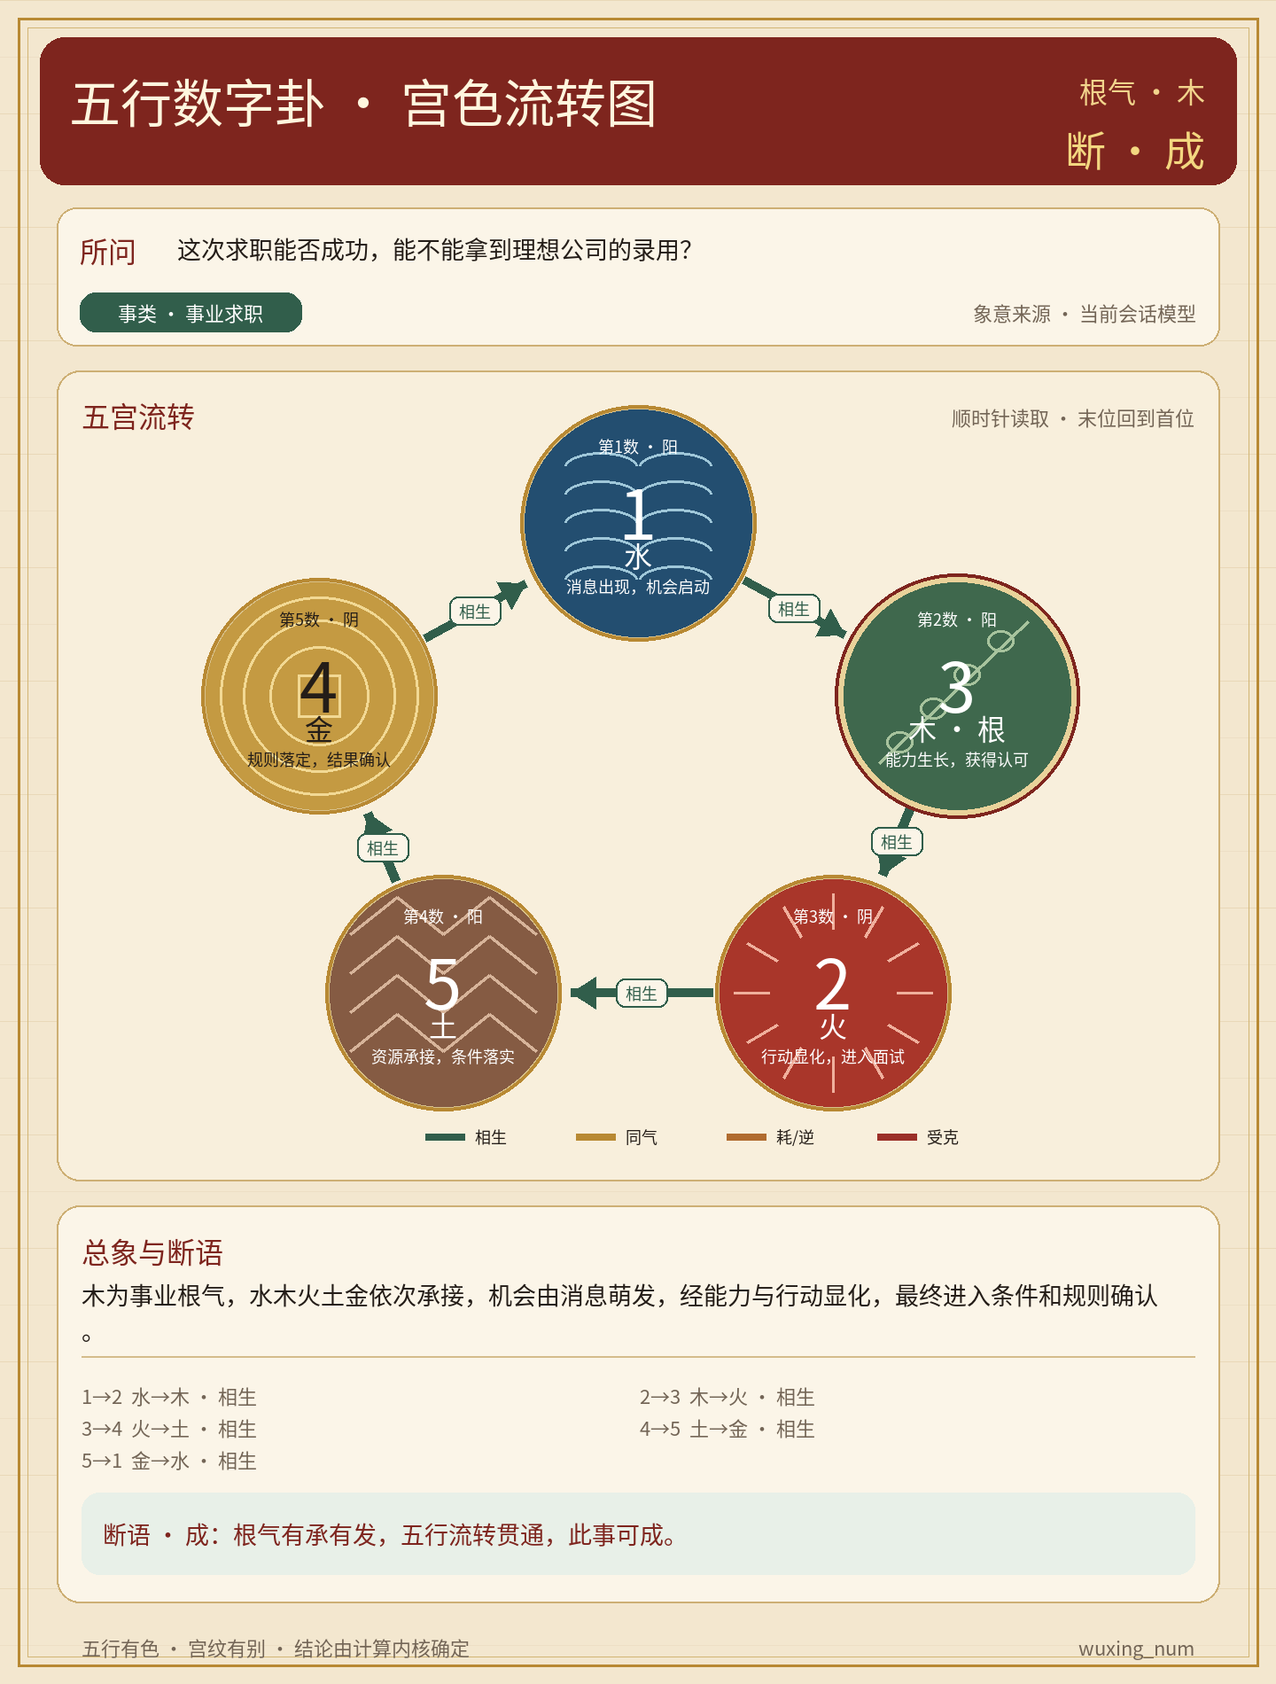
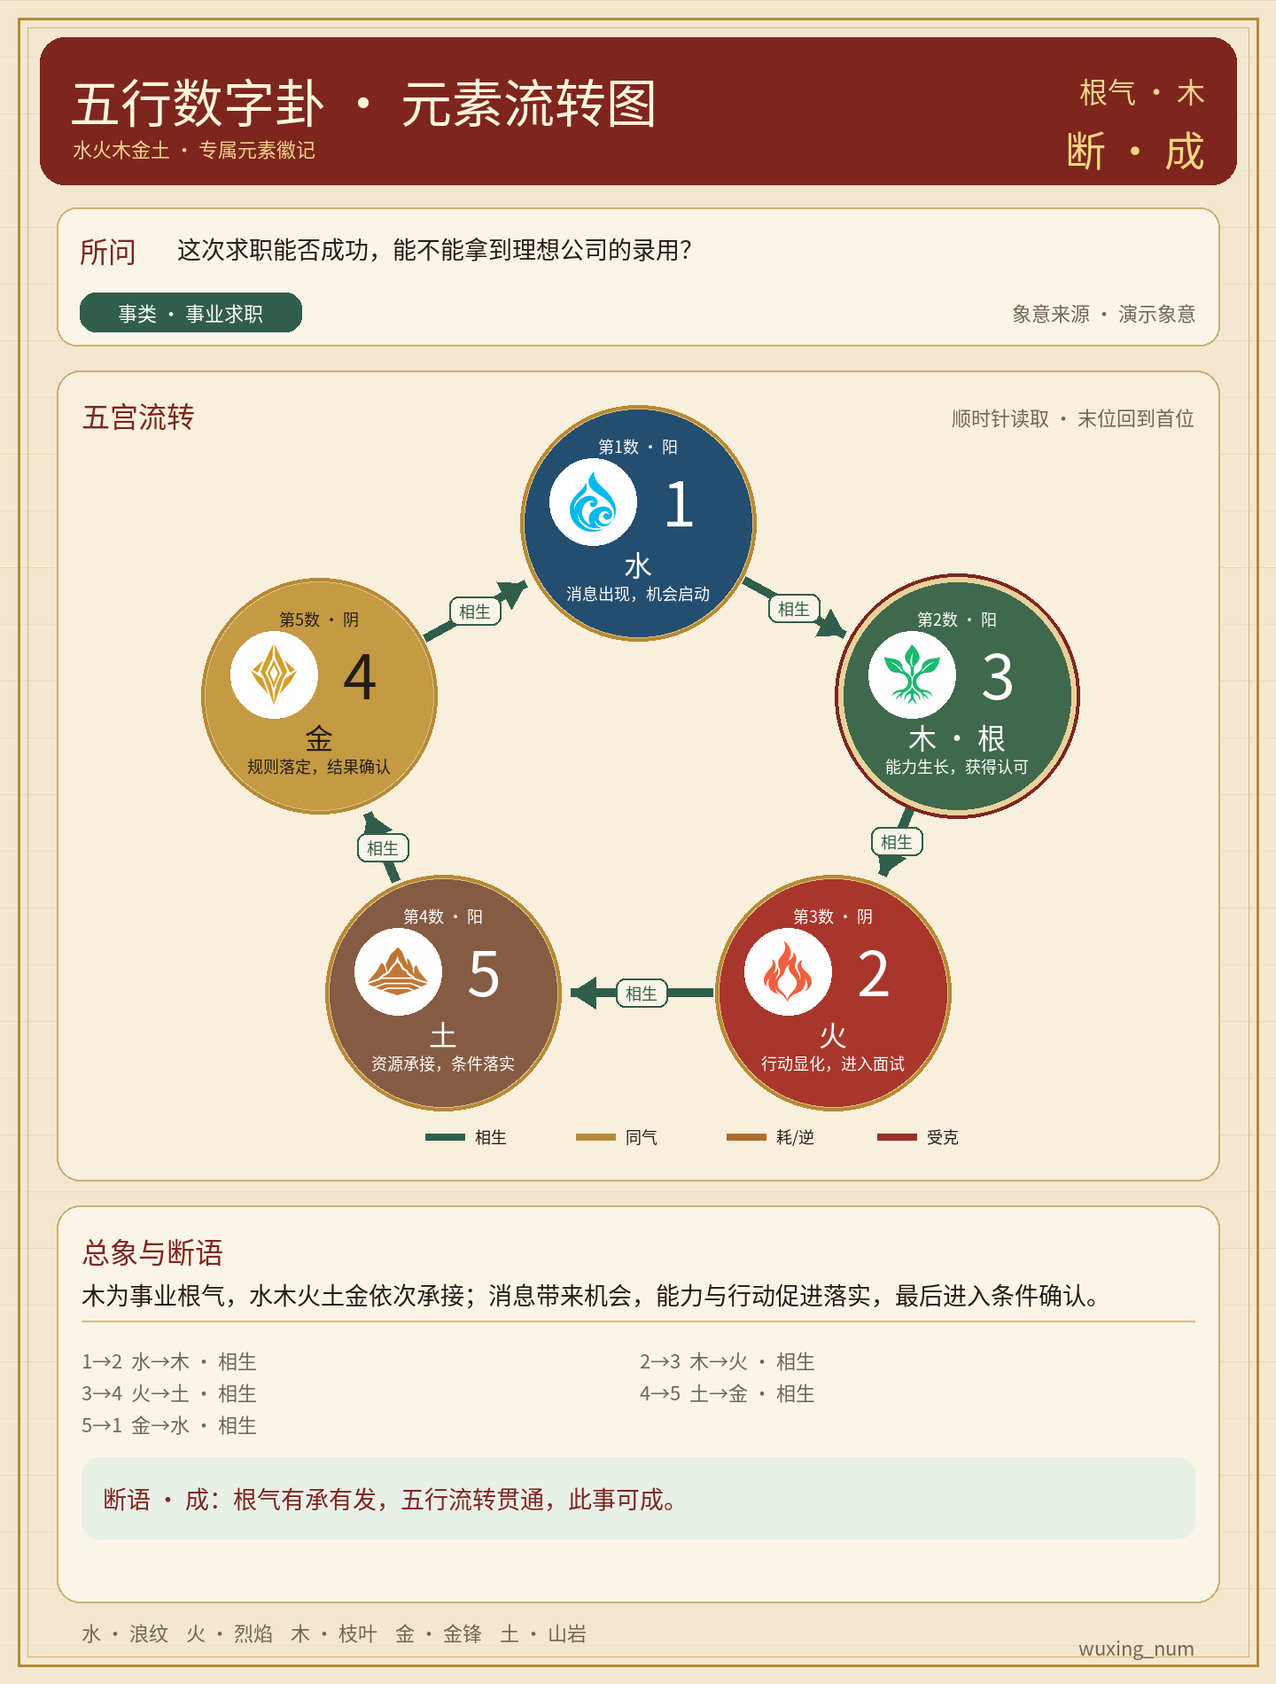
feat(wuxing_num): 接入原创五行元素徽记
参考元素标志风格生成水火木金土专属图集，金以金属刃面表达。图卡并排展示徽记与数字，补充 LLM 象意边界、素材回退与可复现预览。验证：14 项测试通过，完成 PNG 视觉检查。

diff --git a/renderer.py b/renderer.py
@@ -12,8 +12,10 @@ from PIL import Image, ImageDraw, ImageFont
 
 try:
     from .engine import DivinationResult, yin_yang_summary
+    from .element_icons import load_icons
 except ImportError:  # pragma: no cover - direct local execution
     from engine import DivinationResult, yin_yang_summary
+    from element_icons import load_icons
 
 
 WIDTH = 1440
@@ -61,6 +63,11 @@ class WuxingChartRenderer:
     def __init__(self, font_path: str | Path | None = None):
         custom = Path(font_path).expanduser() if font_path else None
         self._font_path = custom if custom and custom.is_file() else self._find_font()
+        try:
+            self._icons = load_icons()
+        except (OSError, ValueError):
+            # A missing optional sprite must not break the chart or its verdict.
+            self._icons = {}
 
     def render(
         self,
@@ -84,7 +91,7 @@ class WuxingChartRenderer:
             "body": self._font(27),
             "small": self._font(22),
             "tiny": self._font(18),
-            "digit": self._font(78),
+            "digit": self._font(70),
             "element": self._font(32),
             "verdict": self._font(46),
         }
@@ -93,7 +100,7 @@ class WuxingChartRenderer:
         self._draw_background(draw)
         self._draw_header(draw, result, fonts)
         self._draw_meta(draw, question, matter_type, symbolism_source, fonts)
-        self._draw_cycle(draw, result, meanings, fonts)
+        self._draw_cycle(canvas, draw, result, meanings, fonts)
         self._draw_interpretation(draw, result, symbolic_summary, fonts)
 
         path = self._output_path(output_path)
@@ -115,7 +122,9 @@ class WuxingChartRenderer:
 
     def _draw_header(self, draw, result, fonts) -> None:
         draw.rounded_rectangle((45, 42, WIDTH - 45, 208), radius=28, fill=PALACE_RED)
-        draw.text((78, 70), "五行数字卦 · 宫色流转图", font=fonts["title"], fill="#FFF6DE")
+        draw.text((78, 70), "五行数字卦 · 元素流转图", font=fonts["title"], fill="#FFF6DE")
+        subtitle = "水火木金土 · 专属元素徽记" if self._icons else "五行纹样 · 元素标志暂不可用"
+        draw.text((82, 151), subtitle, font=fonts["small"], fill="#F2D48C")
         draw.text(
             (WIDTH - 80, 78),
             f"根气 · {result.root}",
@@ -148,7 +157,7 @@ class WuxingChartRenderer:
         draw.text((215, 352), f"事类 · {self._clean(matter_type)[:10] or '综合'}", font=fonts["small"], fill="#FFFFFF", anchor="mm")
         draw.text((WIDTH - 90, 352), f"象意来源 · {self._clean(source)[:18]}", font=fonts["small"], fill=MUTED, anchor="rm")
 
-    def _draw_cycle(self, draw, result, meanings, fonts) -> None:
+    def _draw_cycle(self, canvas, draw, result, meanings, fonts) -> None:
         panel = (64, 418, WIDTH - 64, 1332)
         draw.rounded_rectangle(panel, radius=26, fill="#F8EFDC", outline="#CDAF74", width=2)
         draw.text((92, 444), "五宫流转", font=fonts["section"], fill=PALACE_RED)
@@ -164,6 +173,7 @@ class WuxingChartRenderer:
         yin_yang, _ = yin_yang_summary(result.digits)
         for index, center in enumerate(centers):
             self._draw_node(
+                canvas,
                 draw,
                 center,
                 radius,
@@ -208,21 +218,30 @@ class WuxingChartRenderer:
         draw.rounded_rectangle((mx - width / 2, my - height / 2, mx + width / 2, my + height / 2), radius=10, fill=PAPER_LIGHT, outline=color, width=2)
         draw.text((mx, my), label, font=fonts["tiny"], fill=color, anchor="mm")
 
-    def _draw_node(self, draw, center, radius, *, position, digit, yin_yang, element, meaning, is_root, fonts) -> None:
+    def _draw_node(self, canvas, draw, center, radius, *, position, digit, yin_yang, element, meaning, is_root, fonts) -> None:
         cx, cy = center
         style = ELEMENT_STYLE[element]
         outer = 10 if is_root else 5
         draw.ellipse((cx - radius - outer, cy - radius - outer, cx + radius + outer, cy + radius + outer), fill="#E9D29A" if is_root else "#D8C18A", outline=PALACE_RED if is_root else IMPERIAL_GOLD, width=4)
         draw.ellipse((cx - radius, cy - radius, cx + radius, cy + radius), fill=style["fill"])
-        self._draw_pattern(draw, center, radius, style["pattern"], style["line"])
         text_color = style["text"]
         draw.text((cx, cy - 100), f"第{position}数 · {yin_yang}", font=fonts["tiny"], fill=text_color, anchor="ma")
-        draw.text((cx, cy - 72), digit, font=fonts["digit"], fill=text_color, anchor="ma")
+        icon = self._icons.get(element)
+        if icon is not None:
+            # Keep the generated icon's white background inside a white medallion.
+            # Digits and symbolism occupy separate areas for clear reading.
+            ix, iy = cx - 51, cy - 24
+            draw.ellipse((ix - 49, iy - 49, ix + 49, iy + 49), fill="#FFFFFF")
+            canvas.paste(icon, (ix - icon.width // 2, iy - icon.height // 2))
+            draw.text((cx + 47, cy - 27), digit, font=fonts["digit"], fill=text_color, anchor="mm")
+        else:
+            self._draw_pattern(draw, center, radius, style["pattern"], style["line"])
+            draw.text((cx, cy - 72), digit, font=fonts["digit"], fill=text_color, anchor="ma")
         root_suffix = " · 根" if is_root else ""
-        draw.text((cx, cy + 12), f"{element}{root_suffix}", font=fonts["element"], fill=text_color, anchor="ma")
+        draw.text((cx, cy + 22), f"{element}{root_suffix}", font=fonts["element"], fill=text_color, anchor="ma")
         lines = self._wrap(draw, meaning, fonts["tiny"], 188)
         for index, line in enumerate(lines[:2]):
-            draw.text((cx, cy + 58 + index * 27), line, font=fonts["tiny"], fill=text_color, anchor="ma")
+            draw.text((cx, cy + 66 + index * 24), line, font=fonts["tiny"], fill=text_color, anchor="ma")
 
     @staticmethod
     def _draw_pattern(draw, center, radius, pattern, color) -> None:
@@ -269,7 +288,7 @@ class WuxingChartRenderer:
         verdict_fill = "#E8F0E8" if result.verdict == "成" else "#F4E5DE"
         draw.rounded_rectangle((92, verdict_y, WIDTH - 92, verdict_y + 92), radius=20, fill=verdict_fill)
         draw.text((116, verdict_y + 46), f"断语 · {result.phrase}", font=fonts["body"], fill=PALACE_RED, anchor="lm")
-        draw.text((92, 1842), "五行有色 · 宫纹有别 · 结论由计算内核确定", font=fonts["small"], fill=MUTED)
+        draw.text((92, 1825), "水 · 浪纹    火 · 烈焰    木 · 枝叶    金 · 金锋    土 · 山岩", font=fonts["small"], fill=MUTED)
         draw.text((WIDTH - 92, 1842), "wuxing_num", font=fonts["small"], fill=MUTED, anchor="ra")
 
     @staticmethod

diff --git a/main.py b/main.py
@@ -13,6 +13,7 @@ from astrbot.api.star import Context, Star, register
 
 from .engine import DivinationResult, ELEMENTS, calculate, format_result
 from .renderer import ChartRenderError, WuxingChartRenderer
+from .element_icons import ICON_EXPLANATION
 
 
 PLUGIN_NAME = "wuxing_num"
@@ -32,7 +33,7 @@ class Symbolism:
     PLUGIN_NAME,
     "haxif",
     "以五个数字判断五行流转并生成宫色象意卦图；只响应专用命令或专用 Agent 工具。",
-    "1.1.0",
+    "1.2.0",
 )
 class WuxingNumberDivinationPlugin(Star):
     def __init__(self, context: Context):
@@ -166,6 +167,7 @@ class WuxingNumberDivinationPlugin(Star):
 阴阳与流转：{relations}
 根气：{result.root}
 固定结论：{result.verdict}；固定断语：{result.phrase}
+配图说明：{ICON_EXPLANATION}
 
 请只返回 JSON，不要 Markdown：
 {{"matter_type":"2至8个汉字的事物类型","meanings":["第1位象意，不超过16字","第2位象意，不超过16字","第3位象意，不超过16字","第4位象意，不超过16字","第5位象意，不超过16字"],"summary":"结合问题、根气和流转的明确总象，不超过70字"}}
@@ -258,6 +260,8 @@ class WuxingNumberDivinationPlugin(Star):
 
         禁止用于六爻、铜钱卦、摇卦、爻辞、纳甲等请求。先根据问题本质在
         水火木金土中选择唯一根气，再把该字作为 root_element 传入；不得含糊。
+        卦图使用专为五行生成的水纹、火焰、枝叶、金属刃面和山岩徽记。
+        金为金属而非雷；象意、生克按五行解释，不引入游戏元素反应。
 
         Args:
             question(string): 用户实际所问之事。
@@ -288,7 +292,7 @@ class WuxingNumberDivinationPlugin(Star):
                 symbolism,
                 "调用此工具的 Agent",
             )
-            return f"{chart_status}\n\n{text}\n象意总览：{clean_summary}"
+            return f"{chart_status}\n\n{text}\n象意总览：{clean_summary}\n配图说明：{ICON_EXPLANATION}"
         except ValueError as exc:
             return f"调用失败：{exc}"
         except OSError:

diff --git a/element_icons.py b/element_icons.py
@@ -1,0 +1,42 @@
+"""Original five-element emblem atlas, generated from a visual style reference."""
+
+from pathlib import Path
+
+from PIL import Image, ImageChops
+
+
+ICON_STRIP = Path(__file__).resolve().parent / "assets" / "icons" / "wuxing_emblems.png"
+# One 3 x 2 atlas; the last cell is intentionally empty.
+ICON_BOXES = {
+    "水": (0, 0, 512, 512),
+    "火": (512, 0, 1024, 512),
+    "木": (1024, 0, 1536, 512),
+    "金": (0, 512, 512, 1024),
+    "土": (512, 512, 1024, 1024),
+}
+ICON_EXPLANATION = (
+    "卦图采用专为五行生成的元素徽记：水为浪纹、火为烈焰、木为枝叶根系、"
+    "金为金属刃面与菱形、土为层叠山岩。金就是金属，不对应雷。"
+    "象意、根气和生克按五行解释，不引入游戏元素反应或角色设定。"
+)
+
+
+def load_icons(path: Path = ICON_STRIP) -> dict[str, Image.Image]:
+    """Read sprites at runtime, keeping the original asset unchanged on disk."""
+    with Image.open(path) as strip:
+        if strip.size != (1536, 1024):
+            raise ValueError("五行徽记图集应为 1536 × 1024 图片")
+        icons = {}
+        for element, box in ICON_BOXES.items():
+            icon = strip.crop(box).convert("RGB")
+            # Ignore near-white margins when sizing sprites. Never rewrite the
+            # generated asset: this is the chart renderer's runtime layout.
+            red, green, blue = icon.split()
+            darkest = ImageChops.darker(ImageChops.darker(red, green), blue)
+            bounds = darkest.point(lambda value: 255 if value < 190 else 0).getbbox()
+            if bounds is None:
+                raise ValueError(f"{element}徽记为空")
+            icon = icon.crop(bounds)
+            icon.thumbnail((68, 68), Image.Resampling.LANCZOS)
+            icons[element] = icon
+        return icons

diff --git a/tests/test_renderer.py b/tests/test_renderer.py
@@ -9,6 +9,7 @@ sys.path.insert(0, str(ROOT))
 
 from engine import calculate  # noqa: E402
 from renderer import ELEMENT_STYLE, WuxingChartRenderer  # noqa: E402
+import renderer as renderer_module  # noqa: E402
 
 
 def test_renderer_creates_palace_style_png(tmp_path) -> None:
@@ -37,6 +38,10 @@ def test_renderer_creates_palace_style_png(tmp_path) -> None:
         assert image.format == "PNG"
         assert image.mode == "RGB"
         assert image.size == (1440, 1900)
+        # All five positions contain the white icon medallion, not an empty
+        # flat-colour palace. This also covers glyph pasting on the PNG canvas.
+        for cx, cy in [(720, 590), (1080, 785), (940, 1120), (500, 1120), (360, 785)]:
+            assert image.getpixel((cx - 51, cy - 66)) == (255, 255, 255)
 
 
 def test_each_element_has_distinct_color_and_pattern() -> None:
@@ -62,3 +67,19 @@ def test_renderer_rejects_incomplete_symbolism(tmp_path) -> None:
         assert "五条" in str(exc)
     else:
         raise AssertionError("incomplete symbolism should be rejected")
+
+
+def test_missing_icon_asset_still_renders(tmp_path, monkeypatch) -> None:
+    def missing():
+        raise FileNotFoundError("icon strip absent")
+
+    monkeypatch.setattr(renderer_module, "load_icons", missing)
+    output = WuxingChartRenderer().render(
+        calculate("测试", "13254", "水"),
+        question="测试", matter_type="综合",
+        symbolic_meanings=("起因", "承接", "转折", "落实", "归结"),
+        symbolic_summary="素材丢失时仍显示五行流转。",
+        output_path=tmp_path / "fallback.png",
+    )
+    with Image.open(output) as image:
+        assert image.size == (1440, 1900)

diff --git a/tools/preview.py b/tools/preview.py
@@ -1,0 +1,30 @@
+"""Regenerate the README preview using illustrative, not live-model, symbolism."""
+
+from pathlib import Path
+import sys
+
+ROOT = Path(__file__).resolve().parents[1]
+sys.path.insert(0, str(ROOT))
+
+from engine import calculate
+from renderer import WuxingChartRenderer
+
+
+def main():
+    output = WuxingChartRenderer().render(
+        calculate("这次求职能否成功", "13254", "木"),
+        question="这次求职能否成功，能不能拿到理想公司的录用？",
+        matter_type="事业求职",
+        symbolic_meanings=(
+            "消息出现，机会启动", "能力生长，获得认可", "行动显化，进入面试",
+            "资源承接，条件落实", "规则落定，结果确认",
+        ),
+        symbolic_summary="木为事业根气，水木火土金依次承接；消息带来机会，能力与行动促进落实，最后进入条件确认。",
+        symbolism_source="演示象意",
+        output_path=ROOT / "docs" / "example_chart.png",
+    )
+    print(output)
+
+
+if __name__ == "__main__":
+    main()

diff --git a/assets/icons/generation_prompt.md b/assets/icons/generation_prompt.md
@@ -1,0 +1,31 @@
+# 五行徽记生成提示词
+
+工具：内置 imagegen。用户附件为风格参考，最终图集为新生成素材。
+
+## 首稿
+
+Use case: logo-brand.
+Asset type: ONE production sprite atlas for an existing Chinese five-element divination chart.
+Input image 1 is STYLE REFERENCE ONLY: use its crisp flat colored fantasy elemental emblem language, elegant pointed curves and large negative-space cutouts. Design NEW original emblems specifically for Chinese Wuxing, not the seven Genshin elements.
+Canvas: 1536 x 1024, transparent background with real alpha. Exactly 3 columns by 2 rows of equal 512 square cells. No visible grid. Each symbol centered in its cell, similar visual weight, within the central 320 x 320 area, at least 96px empty padding around each cell. Bottom-right cell completely blank and transparent. Exactly five symbols.
+Top-left WATER: rich cyan-blue fluid teardrop enclosing two curling wave crests, expressive pointed wave tips.
+Top-middle FIRE: vermilion orange three tapered dancing flame tongues around a flame-shaped hollow center.
+Top-right WOOD: emerald green stylized branching sapling, upward shoots and three pointed leaves, visible trunk and roots. Organic growth, not a heart.
+Bottom-left METAL: warm golden-yellow symmetric faceted metal crystal / forged spearhead emblem, sharp diamond facets, clean blade-like slivers, hollow angular center. Clearly solid metal, NOT lightning, NOT thunder, NOT purple, NOT electro swirl.
+Bottom-middle EARTH: deep ochre amber stable mountain emblem, layered rock strata and broad terraced base, grounded weight, distinct from the metallic diamond.
+Style: flat single-color fill per symbol, no gradients, no shadows, no glow, no 3D, no background scene, no circles around symbols. Coherent family of highly legible fantasy game UI silhouettes with graceful tapering cutouts and sharp elegant tips. Must read well at 72px.
+No text, no letters, no labels, no numbers, no watermarks, no additional emblems.
+
+## 最终修订
+
+Edit target: image 1 is the five-element atlas just generated. Style reference: image 2 is the small clean elemental logo strip.
+Correct the atlas to match reference 2's FLAT COLORED VECTOR-STYLE EMBLEMS ON PURE SOLID WHITE. The current black background, luminous glow, gradients, haze and imperceptible interior cutouts are WRONG. Remove ALL of those. Pure #FFFFFF fully opaque background throughout.
+Keep the exact 3-column 2-row atlas positions: upper row Water, Fire, Wood; lower row Metal, Earth, EMPTY WHITE cell. Canvas 1536x1024. Center each logo within its 512x512 cell and keep the outer emblem contained in central 320x320 area with 96px margins. Make all five similar size.
+Use SINGLE FLAT SOLID COLOR for each mark. Water cyan #00BADD, fire coral-red #EE6344, wood green #12B66F, metal golden yellow #D8A323, earth ochre #B97835.
+Water: pointed drop with two flowing white wave cutouts.
+Fire: three tapered tongues with a large WHITE flame-shaped hole.
+Wood: upward three-leaf sapling with broad WHITE vein gaps between leaves and trunk, stylized symmetrical roots.
+Metal: sharp faceted forged diamond with WHITE angular facet gaps and a hollow diamond center. NOT thunder/lightning.
+Earth: a grounded mountain peak with three separated WHITE strata gaps and broad terraced base.
+Each glyph must have generous visible WHITE negative spaces as in reference 2. These are small UI icons not illustrations. No gradients, no glow, no shadows, no texture, no blur, no dark background, no text, no letters, no labels, no numbers, no border, no circle, no watermark. Crisp anti-aliased edges only.
+

diff --git a/README.md b/README.md
@@ -15,12 +15,26 @@ AstrBot 专用的五行数字卦插件。它把五个数字按河图数字五行
 ## 卦图设计
 
 - 宣纸月白底、宫墙朱标题、琉璃金边框，保持故宫宫色气质。
-- 水、火、木、金、土分别使用霁青水纹、朱砂火纹、松花绿叶纹、琉璃黄钱纹、赭石山纹。
+- 参考用户提供的元素标志风格，重新生成五行专属徽记：水纹、火焰、枝叶根系、金属刃面、层叠山岩。
 - 五个宫位顺时针排列，箭头和标签显示相生、同气、耗气、逆生或受克。
-- 色彩之外还使用纹样、五行文字和关系标签，不只依赖颜色传达信息。
+- 每宫将徽记与数字并排显示，下方写明五行和象意；根气宫另有描边与“根”字。
 - 图片写入问题、根气、事类、逐位象意、总象、流转关系和固定断语。
 
 其中数字、阴阳、五行关系和成败由本地计算内核确定；事类、五位象意及总象由当前 Agent/会话模型分析，LLM 不得修改插件算出的结论。
+
+| 数字 | 五行 | 专属徽记 |
+| --- | --- | --- |
+| 1、6 | 水 | 青蓝水滴与卷浪 |
+| 2、7 | 火 | 朱红烈焰与镂空焰心 |
+| 3、8 | 木 | 翠绿枝叶与根系 |
+| 4、9 | 金 | 金色菱形金属刃面 |
+| 5、0 | 土 | 赭黄山峰与层叠岩土 |
+
+借鉴参考图的纯色、尖端曲线与镂空设计语言，徽记专为水火木金土重新生成。金直接表现为金属，不用雷代替。相生相克仍按原五行算法计算，不采用游戏元素反应；LLM 提示与工具说明包含这条边界。
+
+徽记图集保存在 `assets/icons/wuxing_emblems.png`，随插件发布；不依赖临时附件路径或外网。缺少或损坏时回退到原五行纹样，并在图上注明标志暂不可用。来源、图集布局和生成提示词见 [素材说明](assets/icons/README.md)。
+
+使用 `python tools/preview.py`（在插件目录执行）重新生成下方示例；其中象意为演示数据。
 
 ![五行数字卦图示例](docs/example_chart.png)
 

diff --git a/assets/icons/README.md b/assets/icons/README.md
@@ -1,0 +1,9 @@
+# 五行专属徽记
+
+`wuxing_emblems.png` 由内置 imagegen 生成，用户提供的原神元素标志仅作风格参考。
+采用纯色、尖端曲线、清晰镂空与幻想游戏徽记风格；五个图形专门表现水、火、木、金、土。金是金属刃面与菱形，不是雷。
+
+图集为 1536 × 1024、3 列 × 2 行，单格 512 × 512：第一行水、火、木；第二行金、土、空白。背景为白色。
+`element_icons.py` 运行时读取格子、测量非白色内容边界并等比例缩放到图卡圆章，保持源图不变。
+
+首稿光晕过强，最终采用第二次修订的纯色白底版。完整提示词见 [generation_prompt.md](generation_prompt.md)。
